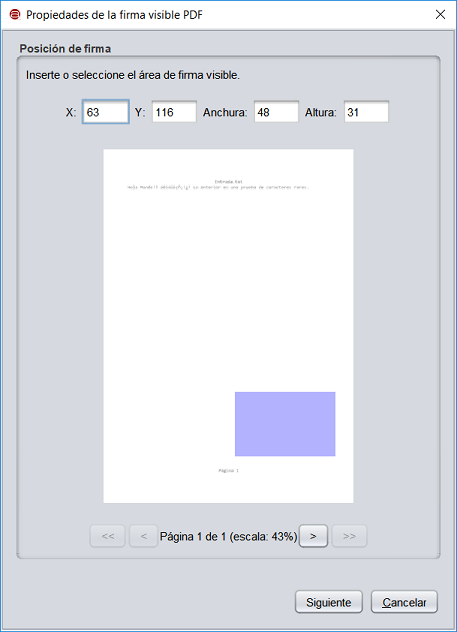
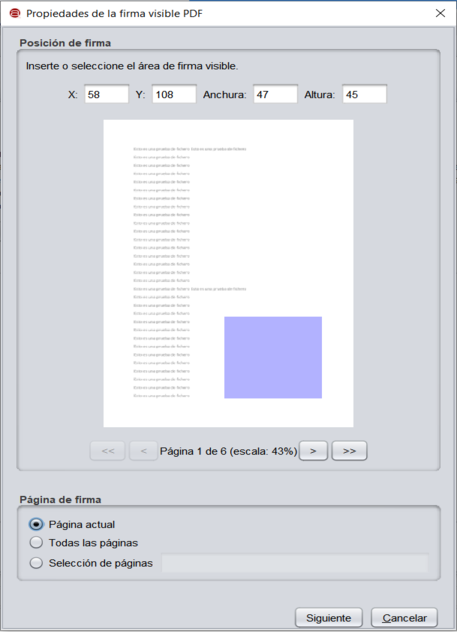
Revisión de ayuda de AutoFirma y corrección menor en proceso de firma por comandos.

Changed region(s): [[0.0, 0.0, 1.0, 1.0], [0.4595, 0.2706, 0.5514, 0.3006]]

diff --git a/afirma-simple/src/main/resources/help/Spanish.lproj/pgs/VentanaPdfVisible.html b/afirma-simple/src/main/resources/help/Spanish.lproj/pgs/VentanaPdfVisible.html
@@ -14,7 +14,7 @@
    <img src="../gfx/menufirmaspadesvisible1_mini.png" alt="Ventana de selecci&oacute;n de posici&oacute;n de firma">
   </p>
   <p>
-  Este men&uacute; permite utilizar el rat&oacute;n para seleccionar un &aacute;rea rectanguar de una de las p&aacute;ginas del
+  Este men&uacute; permite utilizar el rat&oacute;n para seleccionar un &aacute;rea rectangular de una de las p&aacute;ginas del
   PDF.
   </p>
   <ul>
@@ -36,7 +36,25 @@
   	<li><b>&gt;&gt;</b>: Bot&oacute;n para desplazar la visualizaci&oacute;n a la &uacute;ltima p&aacute;gina del PDF.</li>
   </ul>
   <p>
-  El &aacute;rea de firma desaparecera al cambiar de pantalla del PDF. Seleccione el &aacute;re para la firma visible
+  En esta misma ventana, en la parte inferior, se permite indicar la p&aacute;gina o p&aacute;ginas donde debe aparecer la firma visible. Las 
+  opciones que se permiten son las siguientes:
+  </p>
+  <ul>
+  	<li><b>P&aacute;gina actual</b>: La firma visible aparecer&aacute; en la p&aacute;gina que se haya seleccionado en el selector de posici&oacute;n superior.</li>
+  	<li><b>Todas las p&aacute;ginas</b>: La firma visible aparecer&aacute; en todas las p&aacute;ginas del documento.</li>
+  	<li><b>Selecci&oacute;n de p&aacute;ginas</b>: En esta opci&oacute;n se permite seleccionar la p&aacute;gina o rango de p&aacute;ginas donde aparecer&aacute; la firma
+  	visible. Si se desea indicar una p&aacute;gina o varias p&aacute;ginas donde estampar la firma visible, es posible indicando p&aacute;gina a p&aacute;gina con una 
+  	separaci&oacute;n de comas (<code>1,4,7</code>: Se estampa en las p&aacute;ginas 1, 4 y 7) o indicando un rango de p&aacute;ginas a trav&eacute;s de un gui&oacute;n 
+  	(<code>1-8</code>i: Se estampa en las p&aacute;ginas desde la 1 hasta la 8). Tal y como se explica en el p&aacute;rrafo anterior, se permite indicar las p&aacute;ginas 
+  	con un valor negativo, donde se comenzar&aacute; desde el final (<code>1,-1</code>: Se estampar&aacute; en la primera y &uacute;ltima p&aacute;gina). 
+  	Tambi&eacute;n es posible combinar p&aacute;ginas individuales con rangos de p&aacute;ginas, como, por ejemplo: 
+  		<ul>
+  			<li><i>3-6, 8, 10</i>: Indica que se estampar&aacute; en las p&aacute;ginas desde la 3 a la 6 y tambi&eacute;n en la 8 y 10.</li>
+  		</ul>
+  	</li>
+  </ul>
+  <p>
+  El &aacute;rea de firma desaparecera al cambiar de pantalla del PDF. Seleccione el &aacute;rea para la firma visible
   del PDF y a continuaci&oacute;n, pulse el bot&oacute;n <b>Siguiente</b>. 
   </p>
   <p>

diff --git a/afirma-simple/src/main/resources/help/Spanish.lproj/pgs/LineaComandos.html b/afirma-simple/src/main/resources/help/Spanish.lproj/pgs/LineaComandos.html
@@ -469,9 +469,18 @@ Opciones:
   </ul>
   <li style="margin-top: 10pt"><code>signaturePage</code>:</li>
   <ul>
-  	<li>N&uacute;mero de la p&aacute;gina del documento PDF en la que generar una firma visible PDF.</li>
-  	<li><code>-1</code>: Se genera una firma visible PDF en la &uacute;ltima p&aacute;gina. Este es el comportamiento por defecto.</li>
-  	<li><code>-2</code>: Agrega una nueva p&aacute;gina al documento y agrega la firma visible PDF en ella.</li>
+  	<li><code>all</code>: Para indicar que la firma visible aparezca en todas las p&aacute;ginas del documento, se le deber&aacute; de dar este valor. </li>
+  	<li><code>append</code>: Si la firma visible debe de aparecer en una nueva p&aacute;gina en blanco a&ntilde;adida al final del documento, se le deber&aacute; de dar este valor.</li>
+  	<li>P&aacute;gina o listado de p&aacute;ginas: En esta opci&oacute;n se permite seleccionar la p&aacute;gina o rango de p&aacute;ginas donde aparecer&aacute; la firma
+  	visible. Si se desea indicar una p&aacute;gina o varias p&aacute;ginas donde estampar la firma visible, es posible indicando p&aacute;gina a p&aacute;gina con una 
+  	separaci&oacute;n de comas (<code>1,4,7</code>: Se estampa en las p&aacute;ginas 1, 4 y 7) o indicando un rango de p&aacute;ginas a trav&eacute;s de un gui&oacute;n 
+  	(<code>1-8</code>: Se estampa en las p&aacute;ginas desde la 1 hasta la 8). Tal y como se explica en el p&aacute;rrafo anterior, se permite indicar las p&aacute;ginas 
+  	con un valor negativo, donde se comenzar&aacute; desde el final (<code>1,-1</code>: Se estampar&aacute; en la primera y &uacute;ltima p&aacute;gina).
+  	</li>
+  </ul>
+    <li style="margin-top: 10pt"><code>signaturePages</code>:</li>
+  <ul>
+  	<li>Mismo funcionamiento que <code>signaturePage</code>.</li>
   </ul>
   <li style="margin-top: 10pt"><code>signaturePositionOnPageLowerLeftX</code>:</li>
   <ul>

diff --git a/afirma-simple/src/main/resources/help/index.html b/afirma-simple/src/main/resources/help/index.html
@@ -19,7 +19,7 @@
 
     function loadScreen(page) {
         var folder = getLanguageFolder();
-        document.getElementById("dynamicContent").innerHTML = '<object type="text/html" data="' + folder + page + '" width="107%" height="920px" style="align:right;"></object>';
+        document.getElementById("dynamicContent").innerHTML = '<object type="text/html" data="' + folder + page + '" width="107%" style="align:right; min-height:100vh; margin: 0 auto;"></object>';
     }
   </script>
  </head>

diff --git a/afirma-simple/src/main/java/es/gob/afirma/standalone/SimpleAfirma.java b/afirma-simple/src/main/java/es/gob/afirma/standalone/SimpleAfirma.java
@@ -610,7 +610,7 @@ public final class SimpleAfirma implements PropertyChangeListener, WindowListene
     	// Uso en modo linea de comandos
     	if (isUsingCommnadLine(args) || isHeadlessMode()) {
     		CommandLineLauncher.main(args);
-    		forceCloseApplication(0);
+    		return;
     	}
 
     	// Se establece la configuracion del proxy

diff --git a/afirma-simple/src/main/java/es/gob/afirma/standalone/CommandLineLauncher.java b/afirma-simple/src/main/java/es/gob/afirma/standalone/CommandLineLauncher.java
@@ -174,6 +174,10 @@ final class CommandLineLauncher {
 
 			// Imprimimos el resultado de la operacion
 			printMessage(pw, response);
+
+			if (response != null) {
+				System.exit(0);
+			}
 		}
 	}
 
